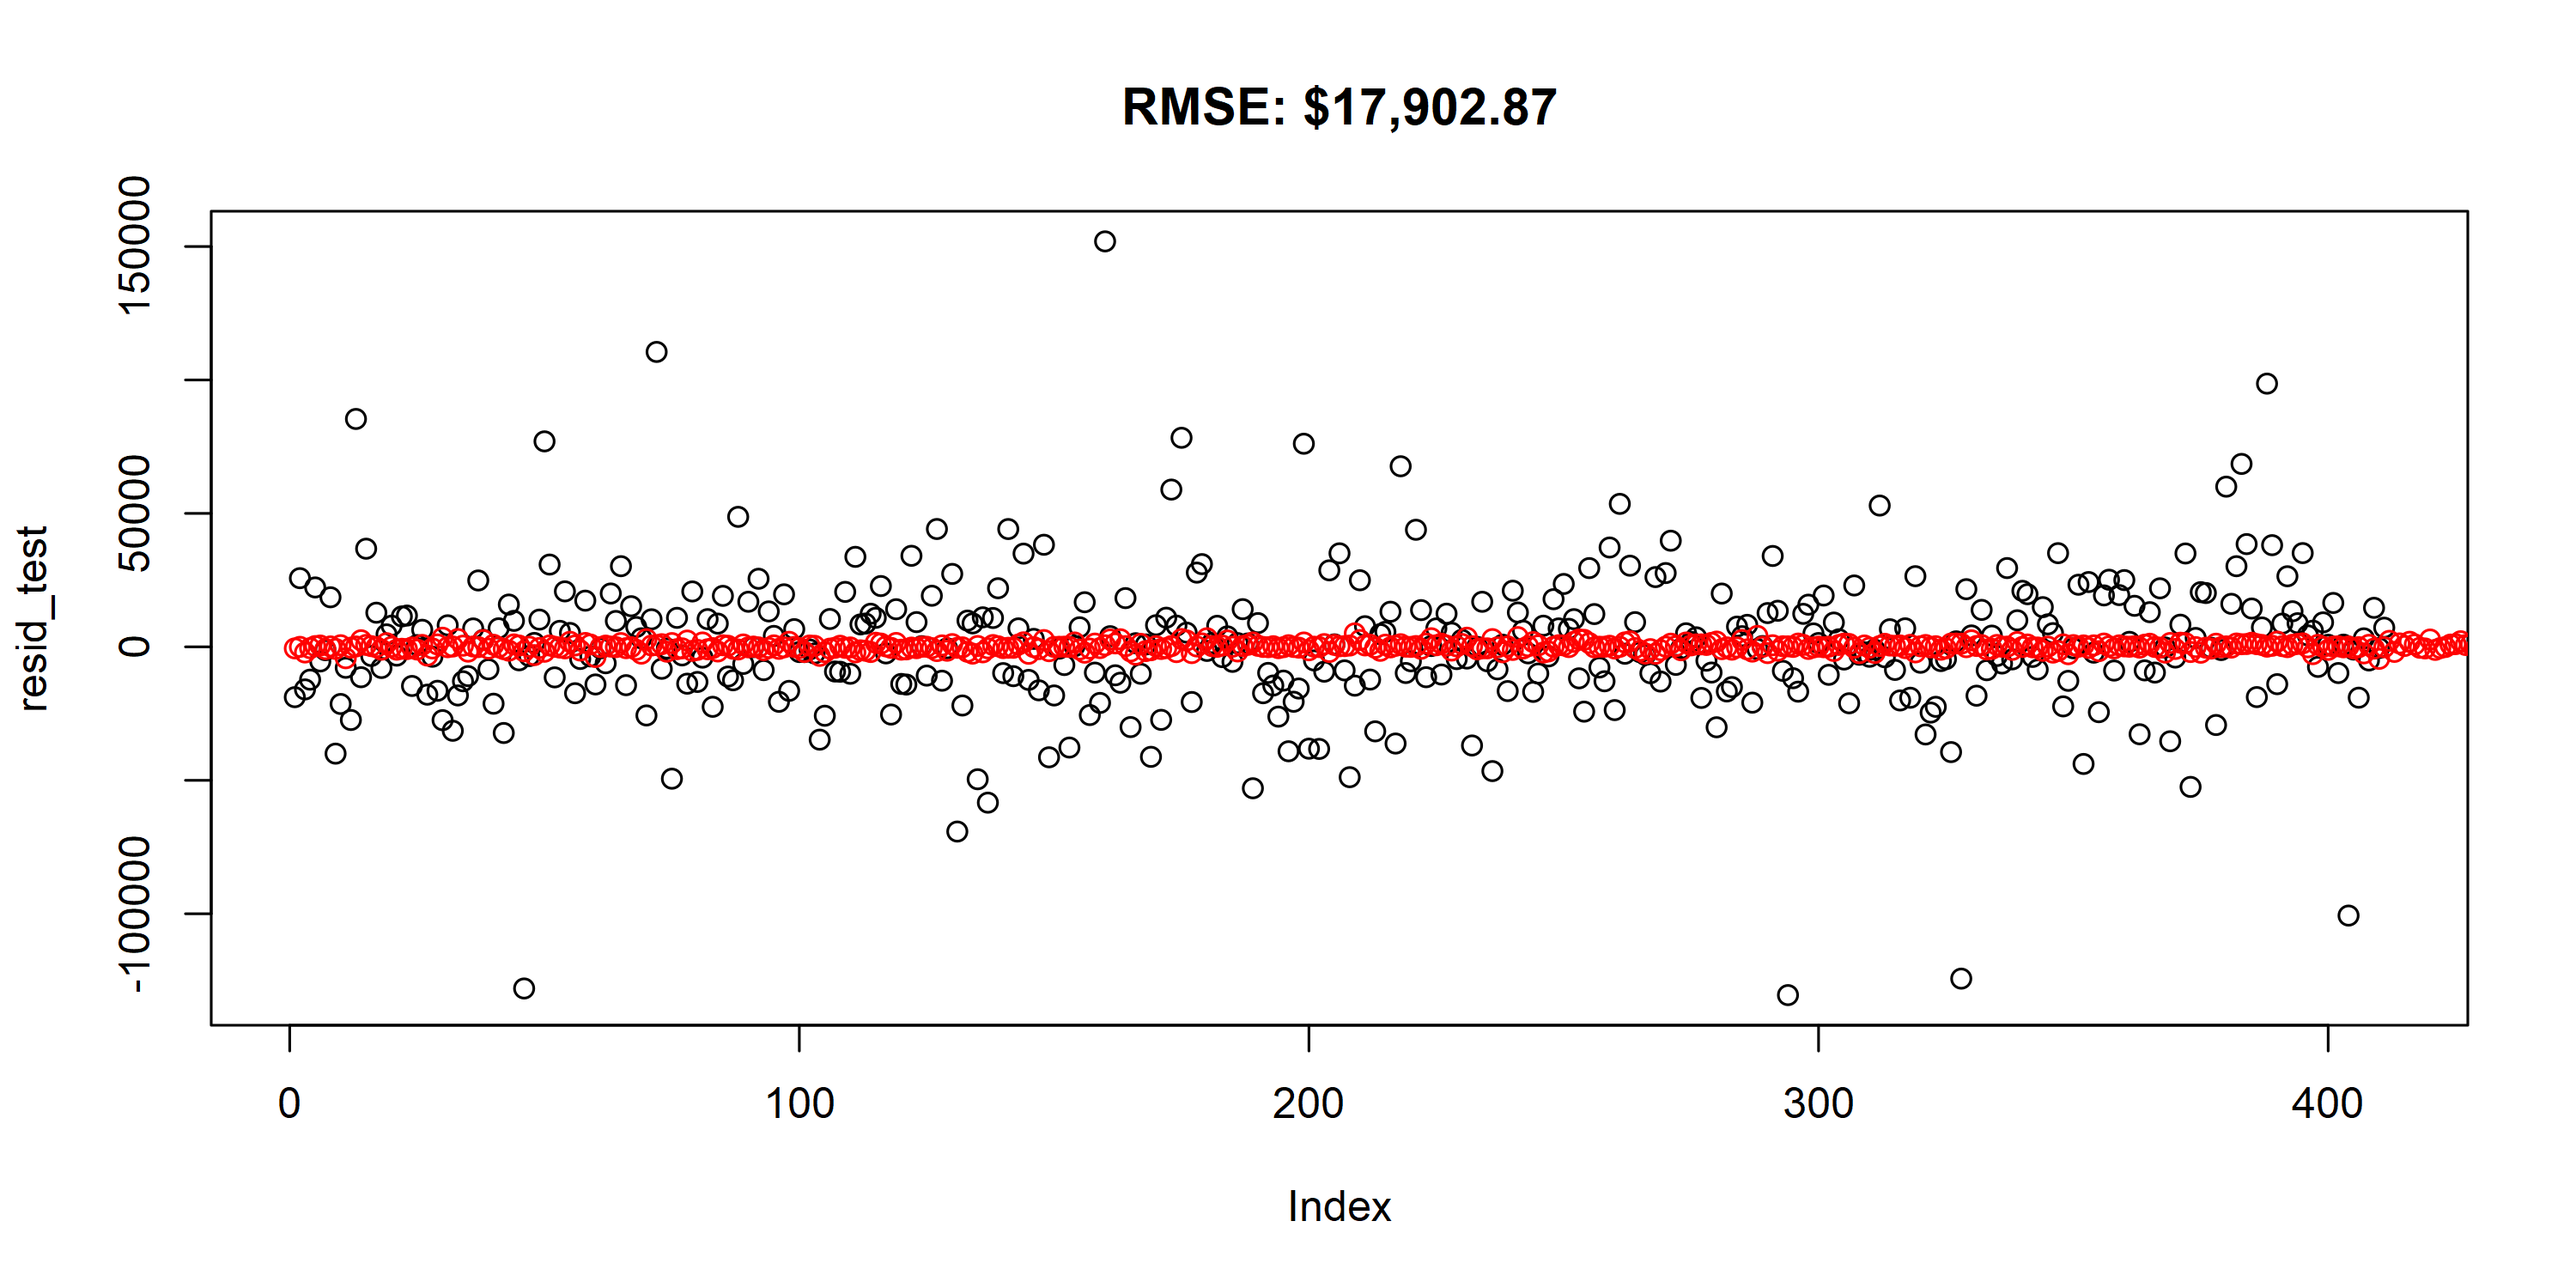
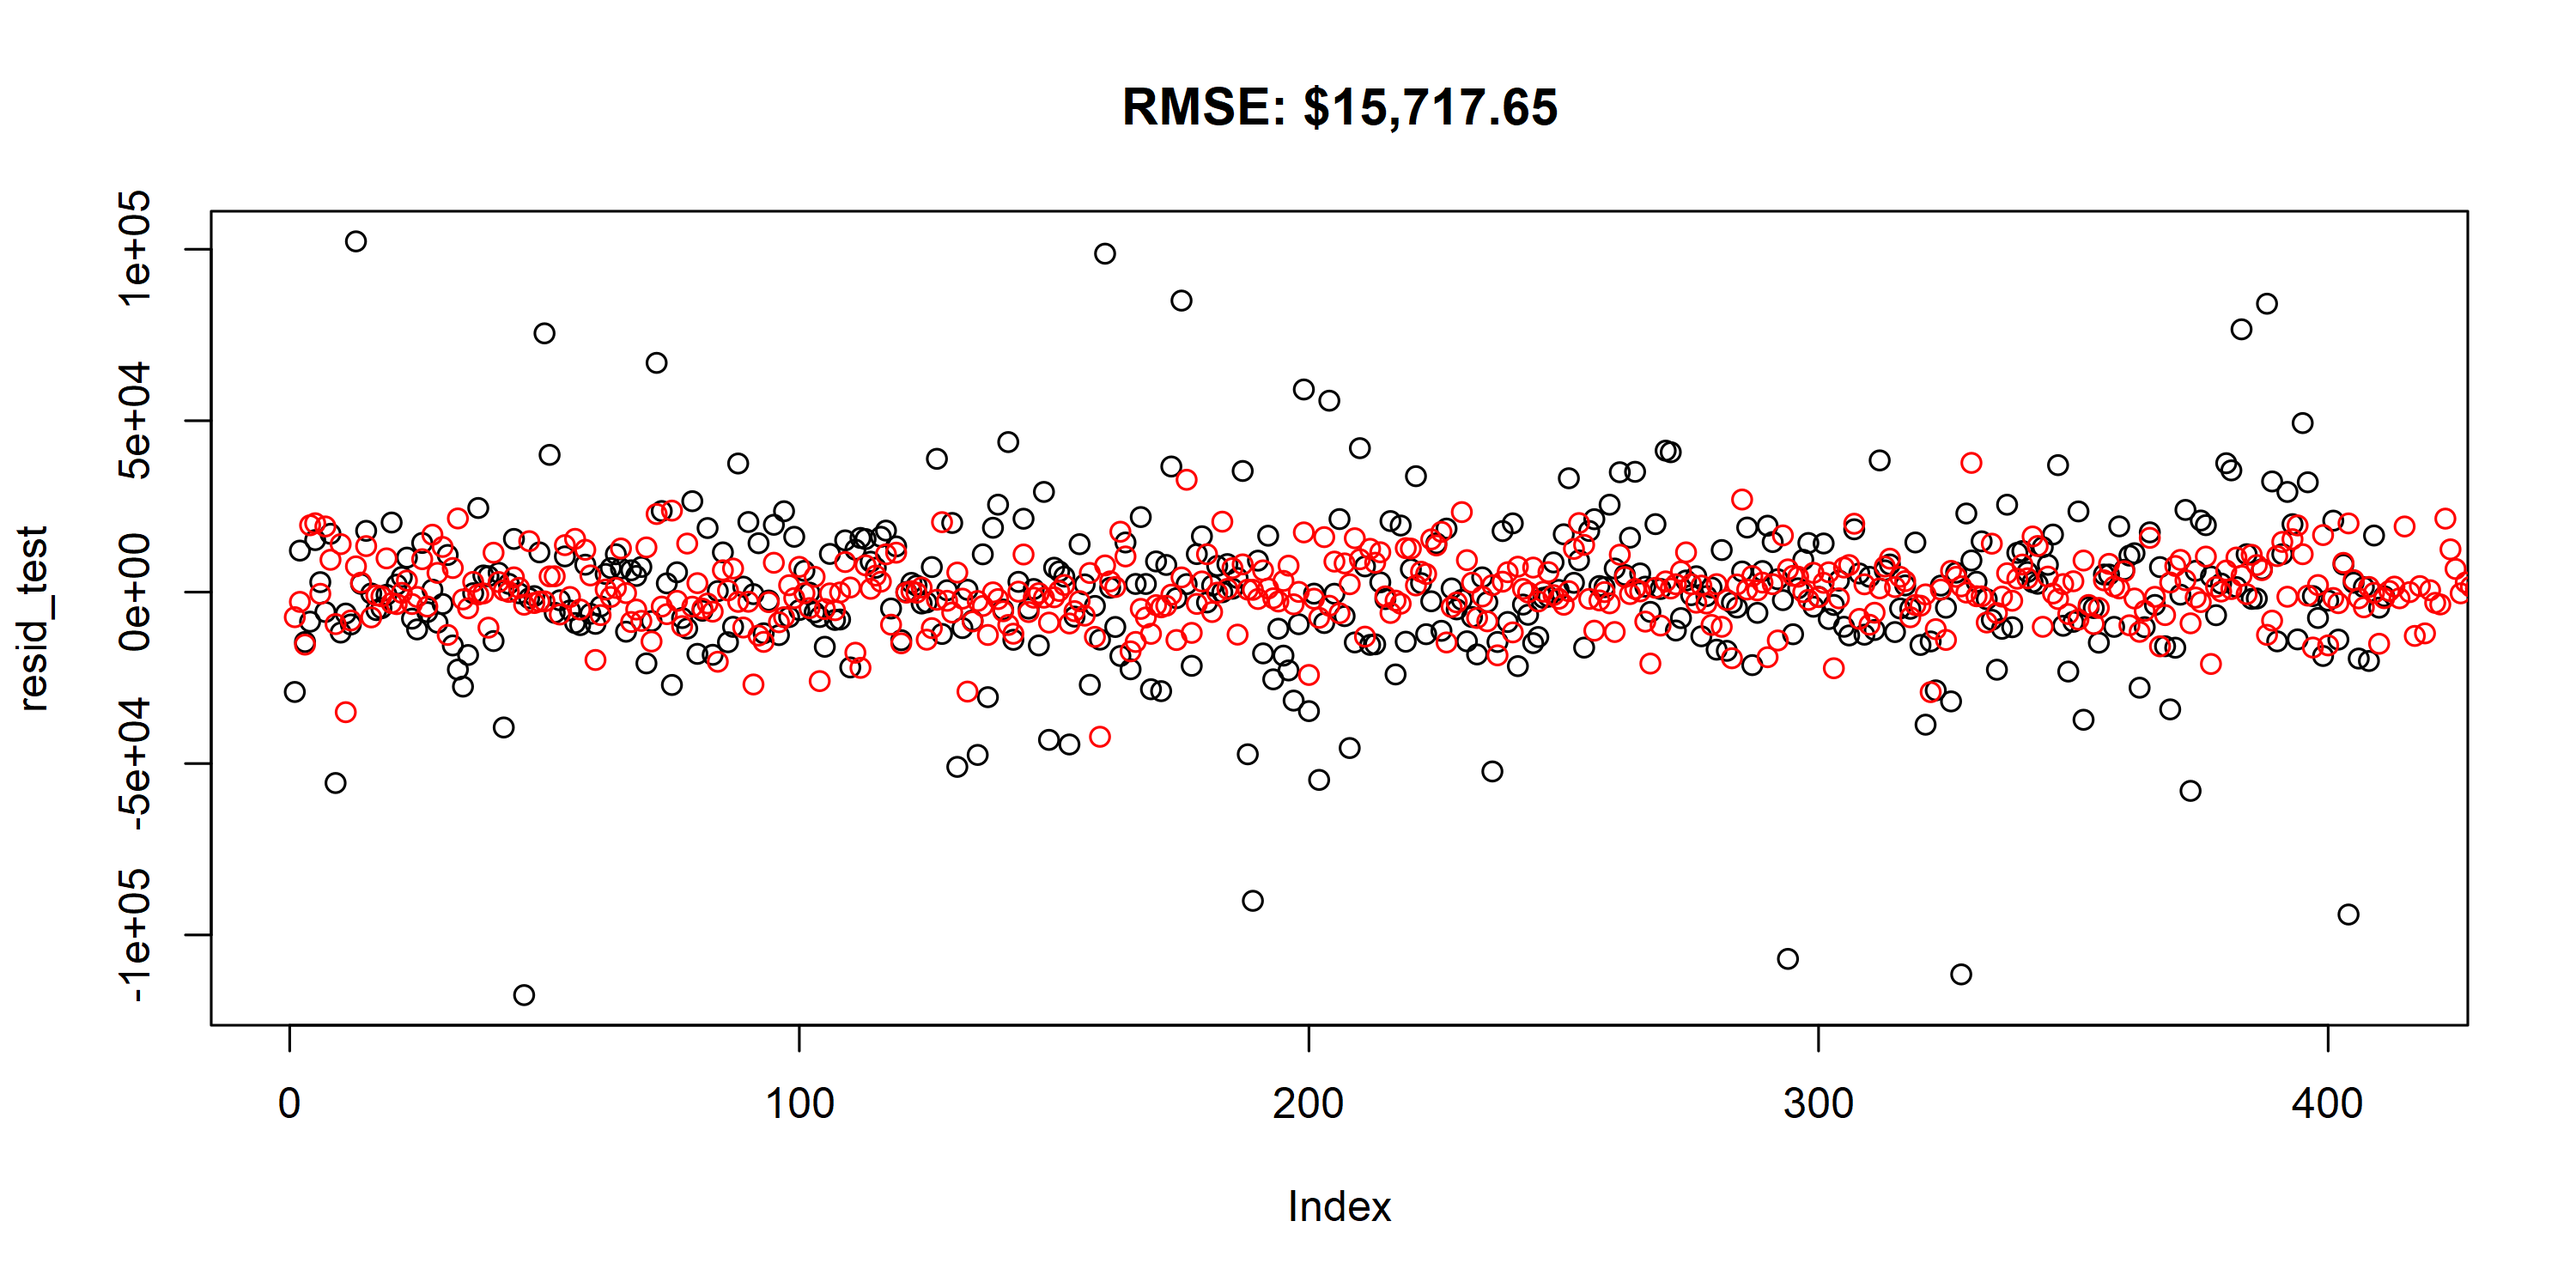
update and render

diff --git a/submissions/alec_wong/readme.md b/submissions/alec_wong/readme.md
@@ -463,7 +463,7 @@ mm_train = mm_data[data$train_test == 1,]
 mm_test  = mm_data[data$train_test == 2,]
 
 # Taken from a different kaggle kernel
-default_param<-list(
+default_param = list(
         objective = "reg:linear",
         booster = "gbtree",
         eta=0.05, #default = 0.3
@@ -479,8 +479,8 @@ XGboost takes a matrix covariate input, so I use `model.matrix` to
 format the input properly.
 
 ``` r
-xgb = xgboost(data = mm_train, label = train_data$SalePrice, nrounds = 500, early_stopping_rounds = 10,
-              max_depth = 3, subsample = 1, verbose = 0)
+xgb = xgboost(data = mm_train, label = train_data$SalePrice, nrounds = 500, params = default_param,
+              verbose = 0)
 ```
 
 ``` r
@@ -488,41 +488,36 @@ xgb
 ```
 
     ##### xgb.Booster
-    raw: 322.6 Kb 
+    raw: 304.4 Kb 
     call:
       xgb.train(params = params, data = dtrain, nrounds = nrounds, 
         watchlist = watchlist, verbose = verbose, print_every_n = print_every_n, 
         early_stopping_rounds = early_stopping_rounds, maximize = maximize, 
         save_period = save_period, save_name = save_name, xgb_model = xgb_model, 
-        callbacks = callbacks, max_depth = 3, subsample = 1)
+        callbacks = callbacks)
     params (as set within xgb.train):
-      max_depth = "3", subsample = "1", silent = "1"
+      objective = "reg:linear", booster = "gbtree", eta = "0.05", gamma = "0", max_depth = "3", min_child_weight = "4", subsample = "1", colsample_bytree = "1", silent = "1"
     xgb.attributes:
-      best_iteration, best_msg, best_ntreelimit, best_score, niter
+      niter
     callbacks:
       cb.evaluation.log()
-      cb.early.stop(stopping_rounds = early_stopping_rounds, maximize = maximize, 
-        verbose = verbose)
     # of features: 221 
     niter: 500
-    best_iteration : 500 
-    best_ntreelimit : 500 
-    best_score : 1304.997 
     nfeatures : 221 
     evaluation_log:
         iter train_rmse
-           1 143569.141
-           2 104766.320
+           1  189978.33
+           2  181088.41
     ---                
-         499   1310.428
-         500   1304.997
+         499   10075.42
+         500   10058.74
 
 Additionally, run cross-validation to assess out-of-sample measurement
 error.
 
 ``` r
 cv_locs = xgb.cv(data = mm_train, label = train_data$SalePrice, nrounds = 500, early_stopping_rounds = 10,
-       max_depth = 12, subsample = 0.5, nfold = 10, metrics = 'rmse')
+       params = default_param, nfold = 10, metrics = 'rmse')
 ```
 
 ``` r
@@ -530,42 +525,21 @@ cv_locs
 ```
 
     ##### xgb.cv 10-folds
-     iter train_rmse_mean train_rmse_std test_rmse_mean test_rmse_std
-        1      144339.784      1368.2977      144339.43     11709.392
-        2      105514.420      1358.4320      106092.44     11373.916
-        3       78394.067      1397.5424       79747.56     10873.094
-        4       59272.918      1032.8095       61725.24     10513.452
-        5       45861.793      1007.0082       50629.66     10589.578
-        6       36740.552      1170.7309       43895.39     10703.187
-        7       30385.424      1220.4809       39238.86     10064.152
-        8       25755.501      1166.8715       36786.55      9878.085
-        9       21876.633      1134.7200       34992.44      9828.948
-       10       18984.118       837.4683       33992.11      9625.315
-       11       17074.113       755.4265       33561.38      9499.660
-       12       15555.357       953.1258       33034.36      9787.590
-       13       14259.274       933.9219       33540.33     10055.228
-       14       13132.919      1040.2940       33194.81     10192.514
-       15       12114.239      1075.4550       33154.45     10921.564
-       16       11388.389      1163.2522       32974.46     10957.675
-       17       10581.504      1115.4385       32684.69     10976.951
-       18        9818.824       957.0005       32555.46     11208.387
-       19        9247.094       998.6904       32445.49     11365.839
-       20        8700.407       963.5650       32379.00     11579.029
-       21        8220.268       869.8125       32364.31     11721.073
-       22        7736.533       747.0314       32520.41     11907.275
-       23        7345.992       729.6712       32520.01     11798.504
-       24        6963.522       792.5200       32547.29     11757.938
-       25        6625.602       795.9331       32675.98     11764.950
-       26        6325.999       776.0345       32756.72     11957.871
-       27        5960.328       724.1539       32679.82     11982.124
-       28        5573.125       740.2380       32723.42     12139.431
-       29        5295.644       765.4489       32743.99     12173.555
-       30        4998.000       711.6958       32763.46     12200.112
-       31        4716.977       713.1119       32760.81     12153.934
-     iter train_rmse_mean train_rmse_std test_rmse_mean test_rmse_std
+        iter train_rmse_mean train_rmse_std test_rmse_mean test_rmse_std
+           1       189984.35      1342.7440      189875.09     12316.111
+           2       181090.77      1305.0900      181030.97     12114.884
+           3       172648.02      1261.9029      172585.79     11964.822
+           4       164634.43      1224.2690      164601.39     11713.839
+           5       157020.76      1184.4157      157019.30     11614.956
+    ---                                                                 
+         253        12896.79       345.5219       29112.96      9655.741
+         254        12875.06       351.5855       29125.90      9658.919
+         255        12857.48       350.4368       29122.11      9664.666
+         256        12840.56       356.6583       29125.77      9665.473
+         257        12817.27       351.2105       29112.06      9671.807
     Best iteration:
      iter train_rmse_mean train_rmse_std test_rmse_mean test_rmse_std
-       21        8220.268       869.8125       32364.31      11721.07
+      247        13021.81       353.2953       29108.83      9639.134
 
 Out-of-sample test error:
 
@@ -609,7 +583,8 @@ mm_test  = mm_data[data$train_test == 2,]
 ```
 
 ``` r
-xgb_fac = xgboost(data = mm_train, label = train_data_fac$SalePrice, nrounds = 500, verbose = 0, params = default_param)
+xgb_fac = xgboost(data = mm_train, label = train_data_fac$SalePrice, nrounds = 500, 
+                  verbose = 0, params = default_param)
 ```
 
 ``` r
@@ -639,11 +614,11 @@ xgb_fac
            2 181110.875
     ---                
          499  10006.789
-         500   9994.485
+         500   9994.486
 
 ``` r
 cv_fac = xgb.cv(data = mm_train, label = train_data_fac$SalePrice, nrounds = 500, early_stopping_rounds = 10,
-       max_depth = 12, subsample = 0.5, nfold = 10, metrics = 'rmse')
+       params = default_param, nfold = 10, metrics = 'rmse')
 ```
 
 ``` r
@@ -651,37 +626,21 @@ cv_fac
 ```
 
     ##### xgb.cv 10-folds
-     iter train_rmse_mean train_rmse_std test_rmse_mean test_rmse_std
-        1      144490.692       1125.492      145127.81      6583.322
-        2      105428.246       1183.518      106782.35      6136.882
-        3       78388.199       1237.987       80836.49      5824.466
-        4       59057.476       1228.399       63121.10      6764.321
-        5       46079.990       1868.557       52253.45      6871.262
-        6       36906.102       2014.247       44800.85      6809.750
-        7       30026.257       2154.867       39924.40      6843.648
-        8       25258.841       2119.219       37436.68      7289.151
-        9       21637.428       1973.670       35809.33      7815.024
-       10       19187.614       2025.596       34779.35      8092.274
-       11       17076.549       1617.090       34487.21      8243.543
-       12       15568.900       1661.381       34204.96      8437.584
-       13       14329.354       1757.867       33718.89      8335.770
-       14       13487.654       1933.332       33658.11      8361.459
-       15       12646.767       2043.739       33552.60      8432.525
-       16       11924.193       2231.809       33194.92      8163.476
-       17       11175.842       2282.863       33265.94      8029.601
-       18       10643.591       2155.032       33488.85      8117.834
-       19        9941.984       1602.091       33287.32      8092.174
-       20        9473.489       1707.525       33262.97      8005.590
-       21        8882.567       1675.484       33299.08      8007.352
-       22        8482.149       1819.149       33254.42      8046.721
-       23        7916.367       1455.444       33384.18      8014.287
-       24        7446.682       1409.786       33473.57      8097.616
-       25        6955.685       1181.266       33549.52      8136.300
-       26        6628.965       1174.193       33510.82      8174.907
-     iter train_rmse_mean train_rmse_std test_rmse_mean test_rmse_std
+        iter train_rmse_mean train_rmse_std test_rmse_mean test_rmse_std
+           1       189993.10       628.9467      189862.03      5566.344
+           2       181112.33       612.1326      181061.00      5411.613
+           3       172682.97       596.0756      172717.14      5299.626
+           4       164670.80       577.4218      164796.35      5256.220
+           5       157069.31       557.8738      157270.61      5081.309
+    ---                                                                 
+         324        11743.67       201.2123       28978.45      7785.230
+         325        11730.42       200.3219       28977.46      7786.013
+         326        11713.72       204.7482       28976.02      7781.878
+         327        11698.44       204.0752       28971.19      7777.175
+         328        11683.55       200.5098       28964.06      7767.884
     Best iteration:
      iter train_rmse_mean train_rmse_std test_rmse_mean test_rmse_std
-       16        11924.19       2231.809       33194.92      8163.476
+      318        11849.18       198.2615       28959.08      7769.454
 
 Out-of-sample test error:
 
